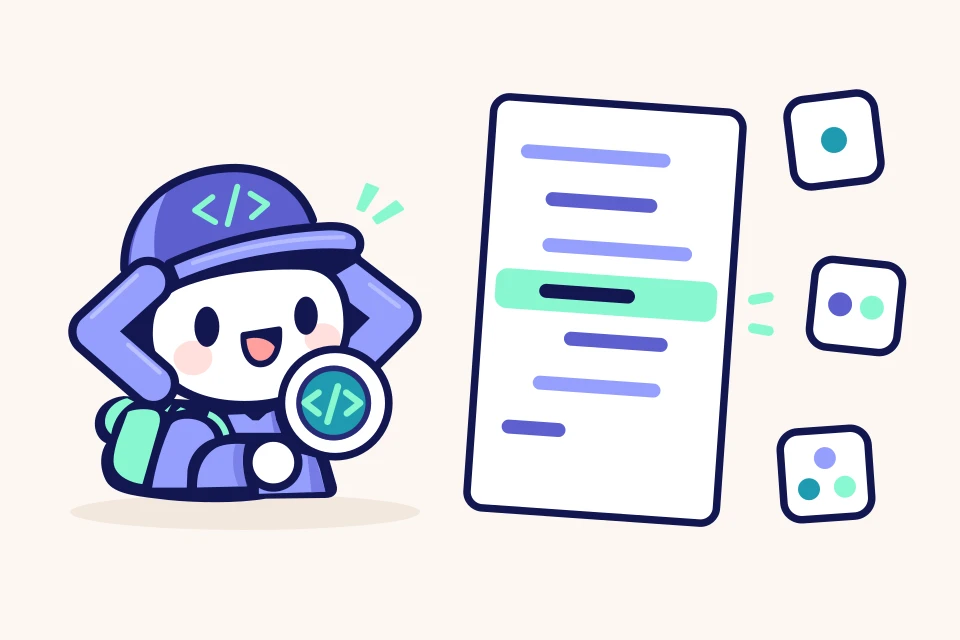
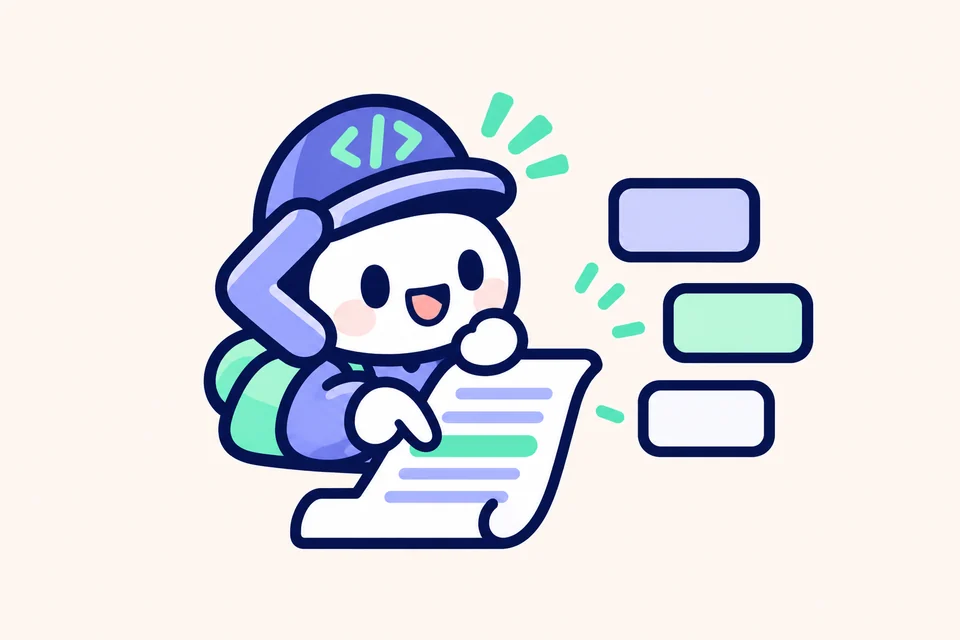
Learn: ChatGPT-generated section illustrations replace the interim vector scenes
Four scenes, one per course group, generated from the owner's mascot
reference and resized to 480 and 960 wide WebP. The interim script and
its SVG sources are removed; originals are kept under
docs/superpowers/specs/assets/learn-illustrations.

diff --git a/DEVLOG.md b/DEVLOG.md
@@ -14,12 +14,11 @@ What was done (technical):
 - **Learn catalog.** A Continue panel above the fold (progress bar, count, one button naming the next lesson, height reserved before progress loads), three starting points, and each group as a section with its illustration plate, its own progress and a continuous rail of lesson nodes; each row is one link at least 44px tall; a sticky group index on wide screens; the first six rows stagger in once. The "Suggested first" line left the rows.
 - **Lesson page.** One 685px column for prose, code and exercises; a section index; a boxed worked-example summary; Check is the one primary button once something is selected, and a failed request is kept apart from a graded result and restores the previous one; status and catalog progress update from the graded response; a single-line sticky pager on phones with safe-area padding; inline code uses `font-size-adjust: 0.508`, the system UI font's x-height measured on macOS. The lesson's code and title morph from the catalog row into the header with React's `ViewTransition` (`lesson-<slug>`); the pair forms when the row is on screen.
 - **Challenges.** Three `ChallengeBar` bars (type, time left, points, one button) beside an equal-height streak panel: `StreakBar` on the scale from `lib/streak-display.ts`, `StreakCalendar` (five weeks, Monday first, UTC, today from the server's clock) and the stats. `ChallengeStreak.recentDays` comes from the query the streak already ran. The rules, rotation times and `LocalRotation` moved into a closed disclosure. A puzzle solved before its period began says "Solved", not "Completed". Signed out, the panel is the mascot and a sign-in prompt.
-- **Illustrations.** `web/public/learn/group-<n>-{480,960}.webp` are interim vector scenes drawn by `scripts/learn-illustrations.mjs` in the mascot's style.
+- **Illustrations.** `web/public/learn/group-<n>-{480,960}.webp` are four ChatGPT-generated scenes, one per course group, made from the owner's mascot reference with the prompts in the design's section B2 and resized with sharp. Three of the first four results replaced the cap's code-brackets mark with stripes, so those were regenerated with the mark named. The interim vector scenes and `scripts/learn-illustrations.mjs` are removed; the 1536 by 1024 originals are in `docs/superpowers/specs/assets/learn-illustrations/`. The images' background samples at about `#fef6f0`, within two steps per channel of `--plate`, which stays unchanged.
 - **Themes.** 14 of 189 themes are removed because their page background clashes with the plate and mascot (`lib/themes/removed.ts`, one reason each; `clash.ts` is the test; contact sheet in `docs/superpowers/specs/assets/theme-clash.png`). 175 remain. A saved removed theme falls back to the default on the server, in the controller and in the pre-paint script, with no catalog load and no flash.
 - **Checks.** Lint, typecheck, 1,893 web and 529 ingest tests, `pnpm validate` (141 puzzles, 28 lessons) and `pnpm smoke` (8 tests, no secrets in the bundle) pass. `pnpm e2e` passes with 148 tests; an earlier run, started while the machine was loaded, failed three unrelated tests (hints, landing sign-out, profile activity) that passed alone and in the next full run. A plain `pnpm --filter web build` stops at the production guard for `BETTER_AUTH_URL` on a machine without it; the smoke run builds with it set. A critic reviewed `/learn`, a lesson and `/challenges` at 1440 and 375 wide in light and two dark themes, and its findings were fixed or are listed below. Landing screenshots recaptured.
 
 Still open:
-- The four illustrations were meant to be generated with ChatGPT. It was signed out in the owner's browser, so interim vector scenes stand in; three reuse one mascot pose. Replacements go at the same paths (`web/public/learn/README.md`).
 - The "Finish setting up your account" banner pushes the page down about 47px when sign-in state resolves (CLS about 0.03). Reserving its height before paint needs one more flag in browser storage and a line on `/privacy`, which is the owner's decision.
 - The browser's toolbar color (`themeColor`) is still fixed white; following the applied theme needs a runtime change beside the pre-paint script.
 - The theme picker is a centered dialog, so it has no trigger corner to open from.

diff --git a/web/public/learn/README.md b/web/public/learn/README.md
@@ -1,31 +1,24 @@
 # Learn section illustrations
 
-These four pictures are interim vector illustrations for the Learn page's sections, drawn in the
-mascot's style until the owner's ChatGPT-generated illustrations are ready.
+These four pictures illustrate the Learn page's sections. They were generated with ChatGPT's
+image tool from the owner's mascot reference, one per course group, on 2026-11-17.
 
 | File | Scene |
 | --- | --- |
-| `group-1-480.webp`, `group-1-960.webp` | Read a small program: a printout with one line picked out, and boxes holding values |
-| `group-2-480.webp`, `group-2-960.webp` | Navigate a repository: a folder tree as a map, a dotted route through three files |
-| `group-3-480.webp`, `group-3-960.webp` | Follow a web request: an envelope on a pipe, through three gates, to a server |
-| `group-4-480.webp`, `group-4-960.webp` | Reason about systems: two gears, a storage drum and a stream of dots |
+| `group-1-480.webp`, `group-1-960.webp` | Read a small program: the mascot tracing one line of a printout, three value boxes beside it |
+| `group-2-480.webp`, `group-2-960.webp` | Navigate a repository: a folder above three files joined by a dotted path, the mascot's magnifying glass over the first |
+| `group-3-480.webp`, `group-3-960.webp` | Follow a web request: an envelope on a pipe, through three gates (one checked), to a server |
+| `group-4-480.webp`, `group-4-960.webp` | Reason about systems: the mascot at a control desk, two gears, a storage drum and a stream of dots |
 
-Each is 3:2, at 480 by 320 and 960 by 640. `src/group-<n>.svg` is the vector scene each pair is
-rendered from.
+Each is 3:2, at 480 by 320 and 960 by 640. The 1536 by 1024 originals are in
+`docs/superpowers/specs/assets/learn-illustrations/`.
 
-## Regenerating
+## Replacing one
 
-The scenes are composed in `web/scripts/learn-illustrations.mjs` from the mascot's geometry
-(`web/components/site/mascot-geometry.ts`) and a few simple props, so the script writes the SVG
-files as well as the WebP files. Change a scene in the script, never in the SVG, then run from
-`web/`:
+Generate at 3:2 with the mascot reference attached and the shared style line from section B2 of
+`docs/superpowers/specs/2026-11-17-learn-challenges-brand-design.md`. Ask for the code-brackets
+mark on the cap by name: a bare "no text" makes the model replace it with stripes. Resize with
+sharp to 480 and 960 wide WebP at the same paths.
 
-```
-node scripts/learn-illustrations.mjs
-```
-
-## Replacing them
-
-The ChatGPT-generated replacements go at the same paths, with the same names and sizes:
-`group-<n>-480.webp` and `group-<n>-960.webp`. Once a section has its replacement, remove that
-scene from the script (or stop running it), since running it again would overwrite the new file.
+The background of all four samples within two steps per channel of `--plate` (`#fcf7f2`; the
+images are about `#fef6f0`), so the plate color stays as it is.
